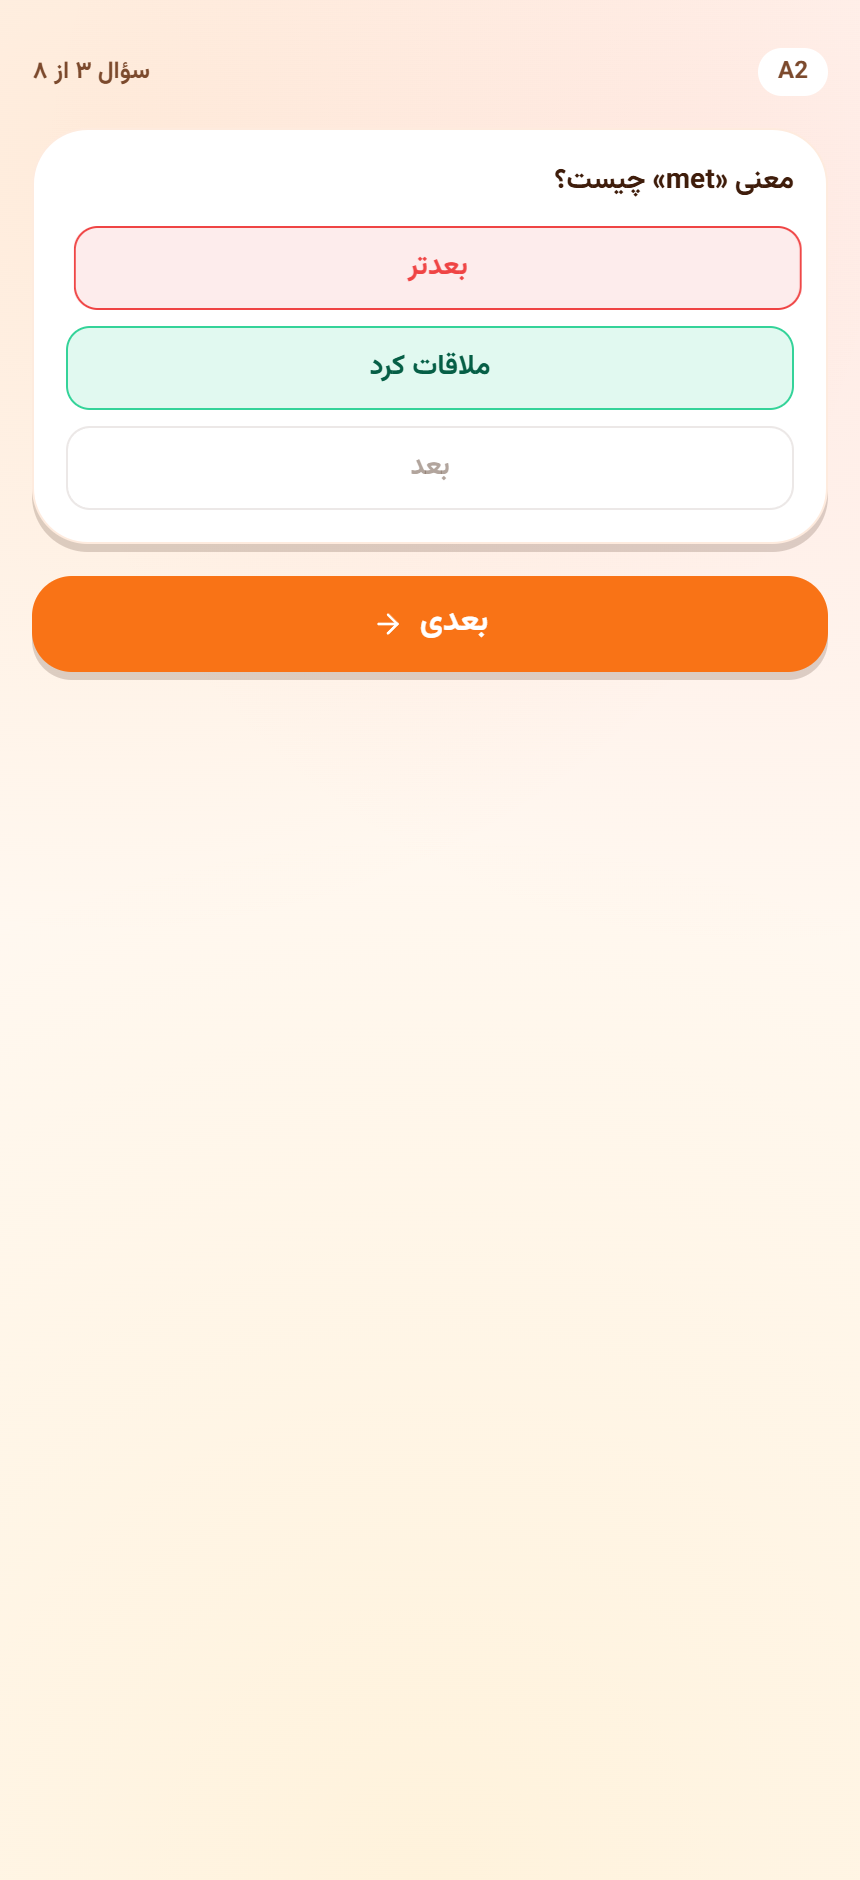
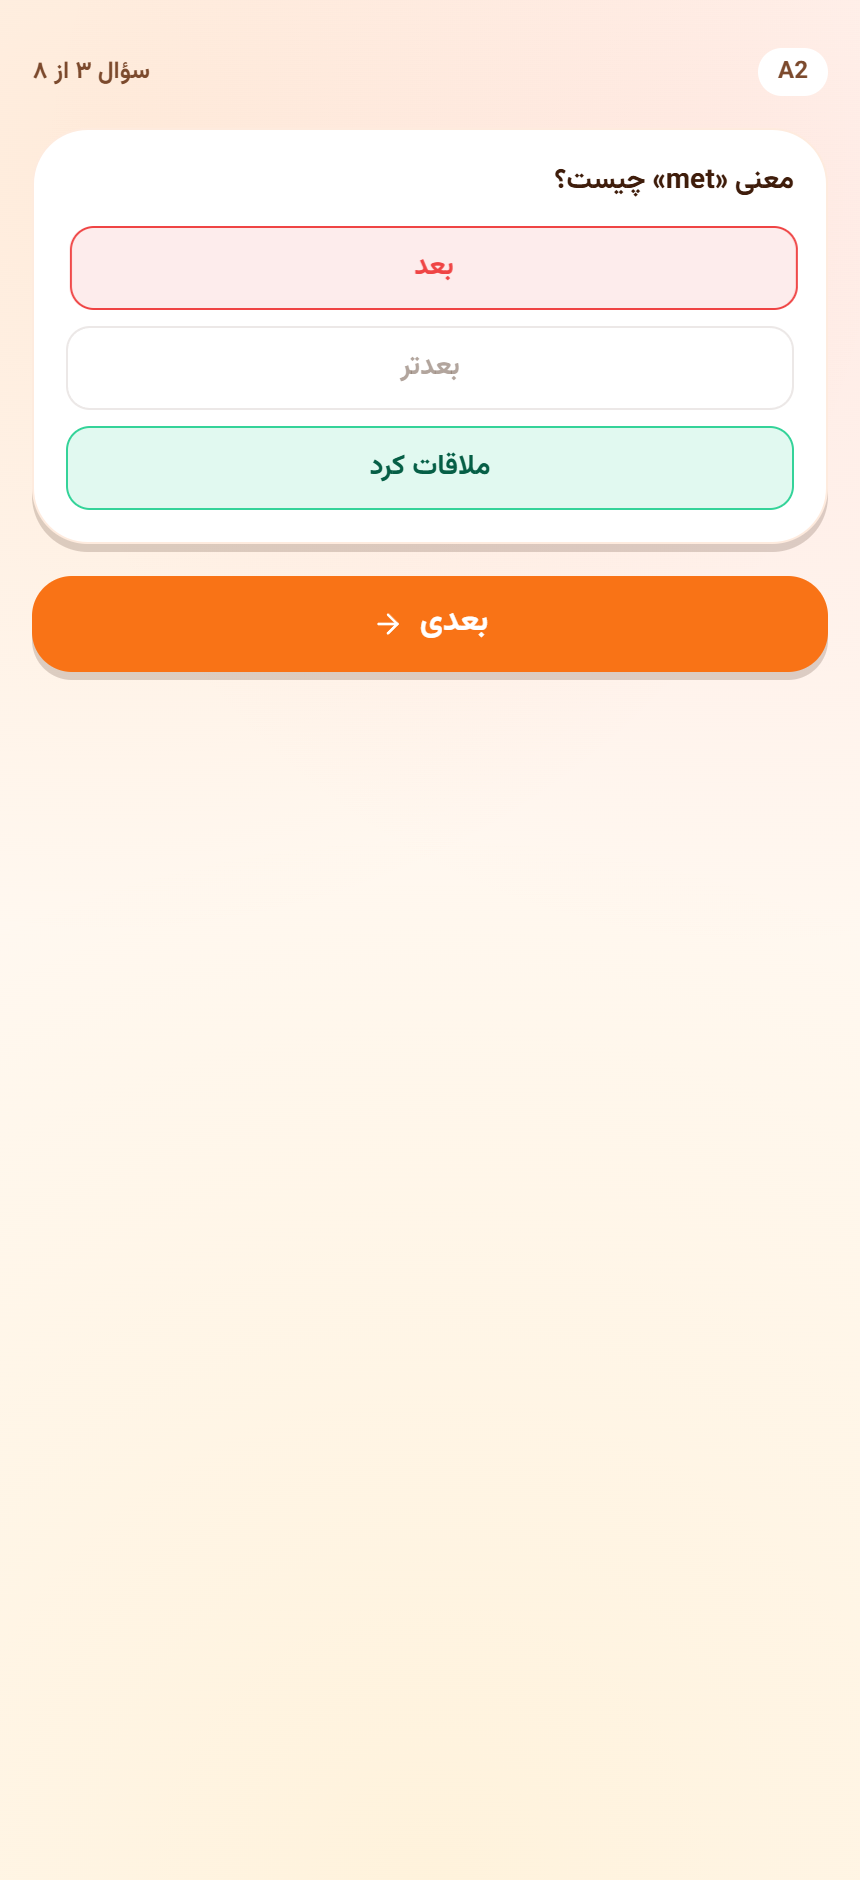
Placement test: rotate answer positions and require consecutive levels (no skipping)

Changed region(s): [[0.0605, 0.1234, 0.9372, 0.2777]]

diff --git a/src/app/app/start/page.tsx b/src/app/app/start/page.tsx
@@ -26,12 +26,11 @@ export default function StartPage() {
 
     for (const exercise of pick) {
       if (exercise.kind !== "mcq") continue;
-      questions.push({
-        level,
-        prompt: exercise.prompt,
-        choices: exercise.choices,
-        answer: exercise.answer,
-      });
+      // rotate the options so the correct one is not always in the same position
+      const shift = questions.length % exercise.choices.length;
+      const rotated = exercise.choices.map((_, index) => exercise.choices[(index + shift) % exercise.choices.length]);
+      const answer = (exercise.answer - shift + exercise.choices.length) % exercise.choices.length;
+      questions.push({ level, prompt: exercise.prompt, choices: rotated, answer });
     }
   }
 

diff --git a/src/components/app/Placement.tsx b/src/components/app/Placement.tsx
@@ -60,11 +60,13 @@ export function Placement({
       if (item.correct) correctByLevel[item.level] = (correctByLevel[item.level] ?? 0) + 1;
     }
 
+    // levels are passed consecutively: one weak level stops the climb
     let levelIndex = 0;
     for (let index = 0; index < levels.length; index += 1) {
       const level = levels[index];
       const ratio = (correctByLevel[level] ?? 0) / (totalByLevel[level] ?? 1);
       if (ratio >= 0.5) levelIndex = index + 1;
+      else break;
     }
 
     setStartLevel(levels[Math.min(levelIndex, levels.length - 1)] ?? levels[0]);
